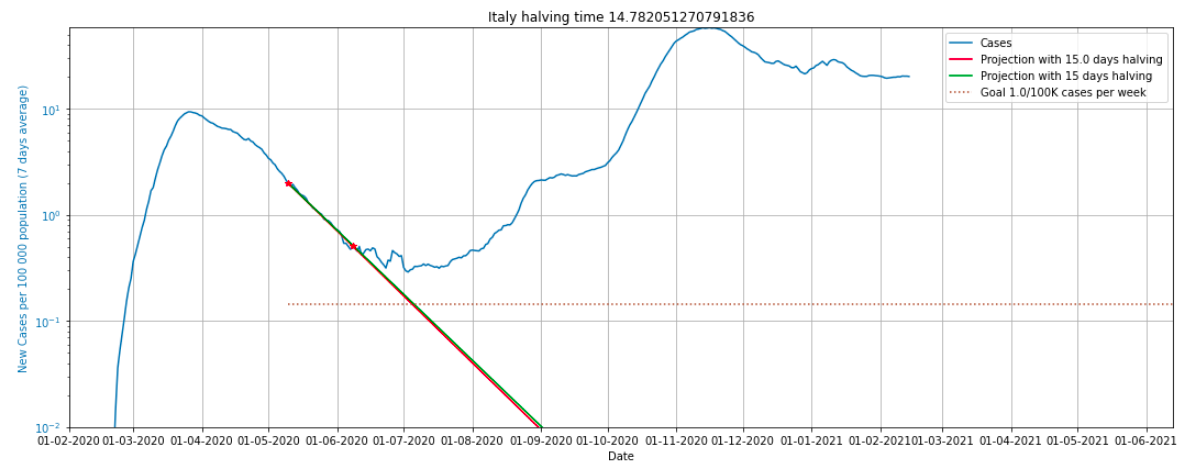
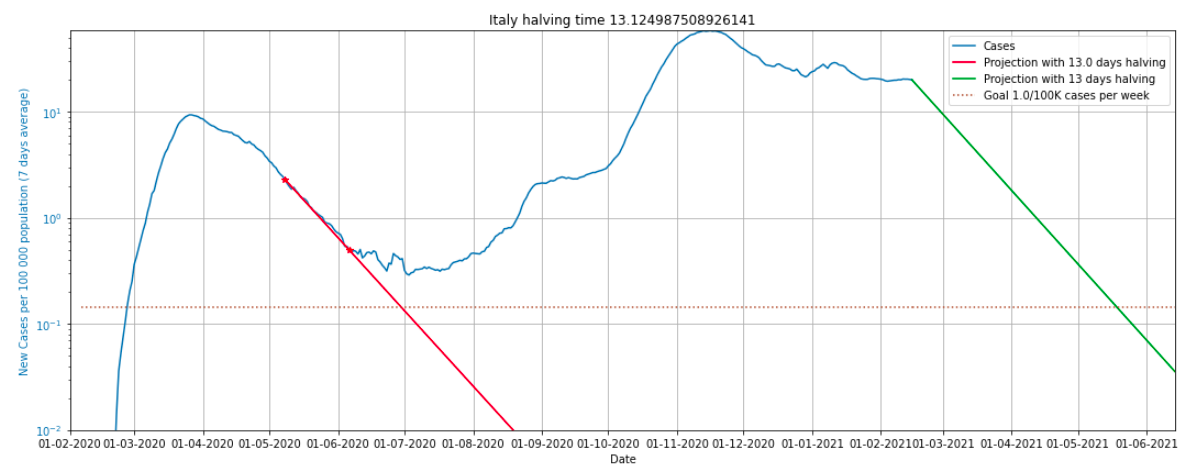
zero covid parte 2/3

diff --git a/_posts/2021-02-16-ZeroCovidTimes.md b/_posts/2021-02-16-ZeroCovidTimes.md
@@ -31,7 +31,19 @@ It is now interesting to understand what is the halvening time for the developme
 
 ## How to forecast the time needed in lockdown before the new phase?
 
-Let us look at the Covid cases in New Zealand. There were few cases at the benning of March, then the Zero Covid strategy was applied. 
+Let us look at the Covid cases in New Zealand. There were few cases at the benning of April, then the Zero Covid strategy was applied. 
 
 ![New Zealand cases](/images/postCovid/HalveningNewZealand.png)
- 
+
+There the peak was of around 2 detected cases per day per 100,000 inhabitants, which was brought to almost zero in around one month. In particular, we see that in the logarithmic scale, they were able to halven the detected cases every 5 days. 
+
+If we come back to Europe we can observe similar behaviors, but with way higher numbers. 
+In **Italy**, after the secod wave, we observe a negative exponential  behavior as well in May, where the testing was more cosistent in the country. There the halvening time was of **14 days**. At that time they could have reached the goal of 1 case per week per 100,000 inhabitants by continuing the measures that were on in May till the beginning of July. On the contrary, restrictions were lifted and the exponential inerted around mid July.
+
+![Italy first wave](/images/postCovid/HalveningItalyFirstWave.png) 
+
+The past is gone and the question is: if Italy applies the same measures kept on May 2020 from now, **when will the goal of 1 case per week per 100,000 inhabitants will be reached?** 
+Supposing that the testing is working more or less fine and that the virus did not mutate too much (which is not be true, it worsened), we can forecast the cases for the **new lockdown**.
+
+![Italy first wave](/images/postCovid/HalveningItalyProjection15Days.png) 
+
